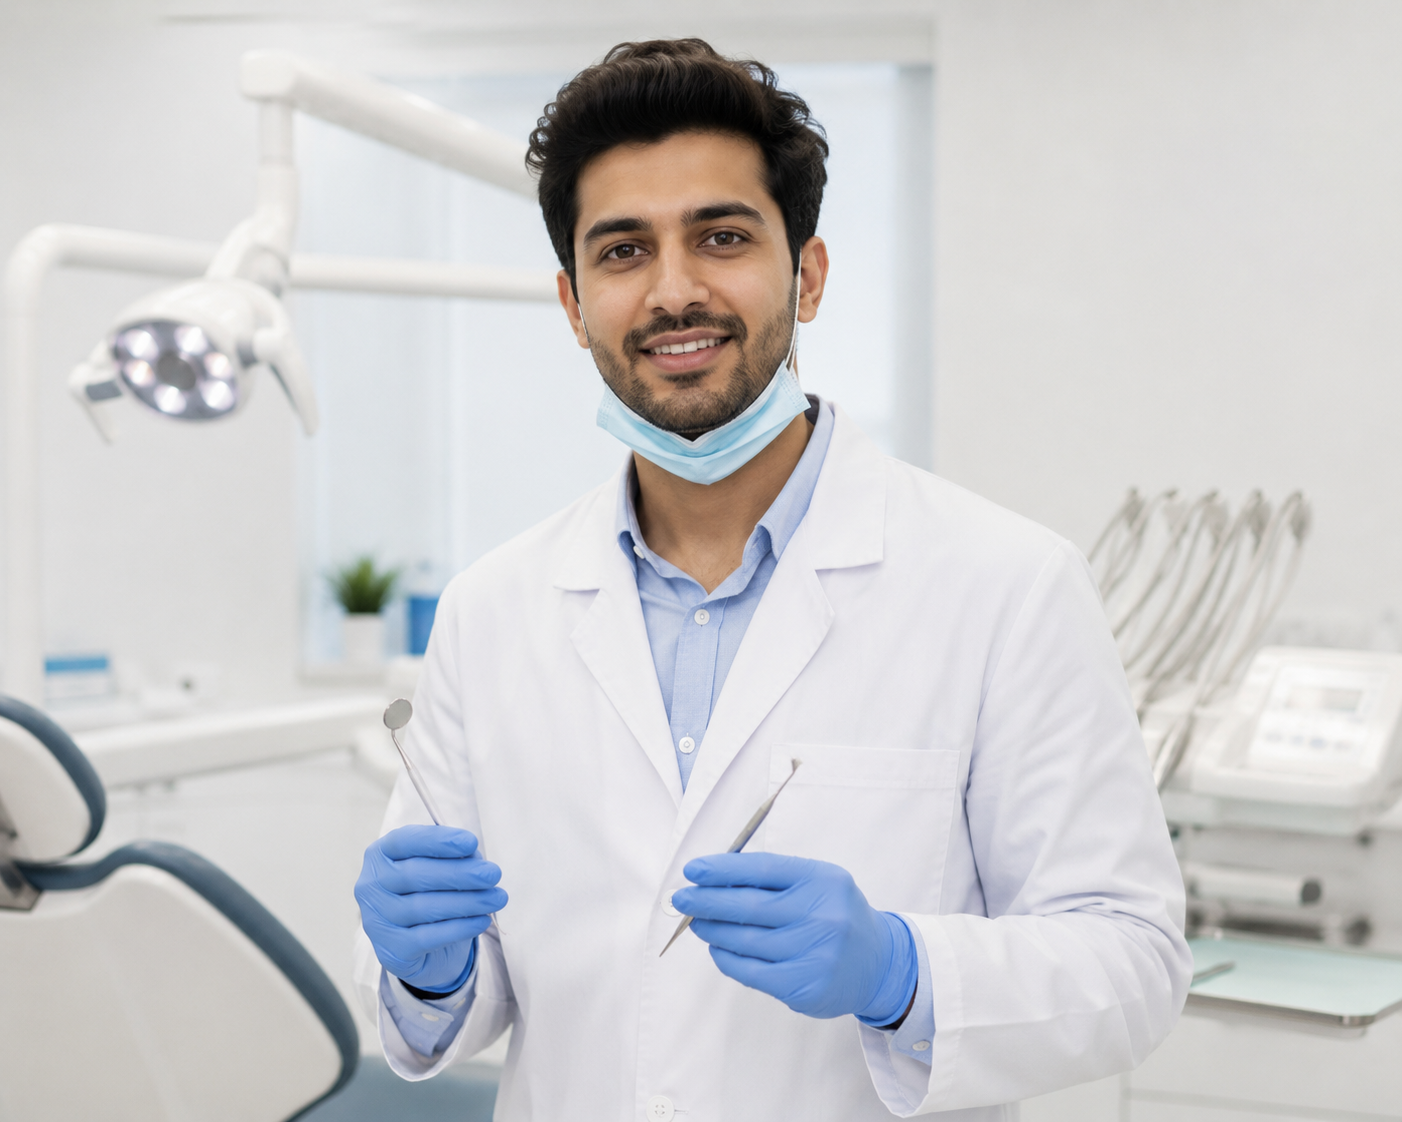
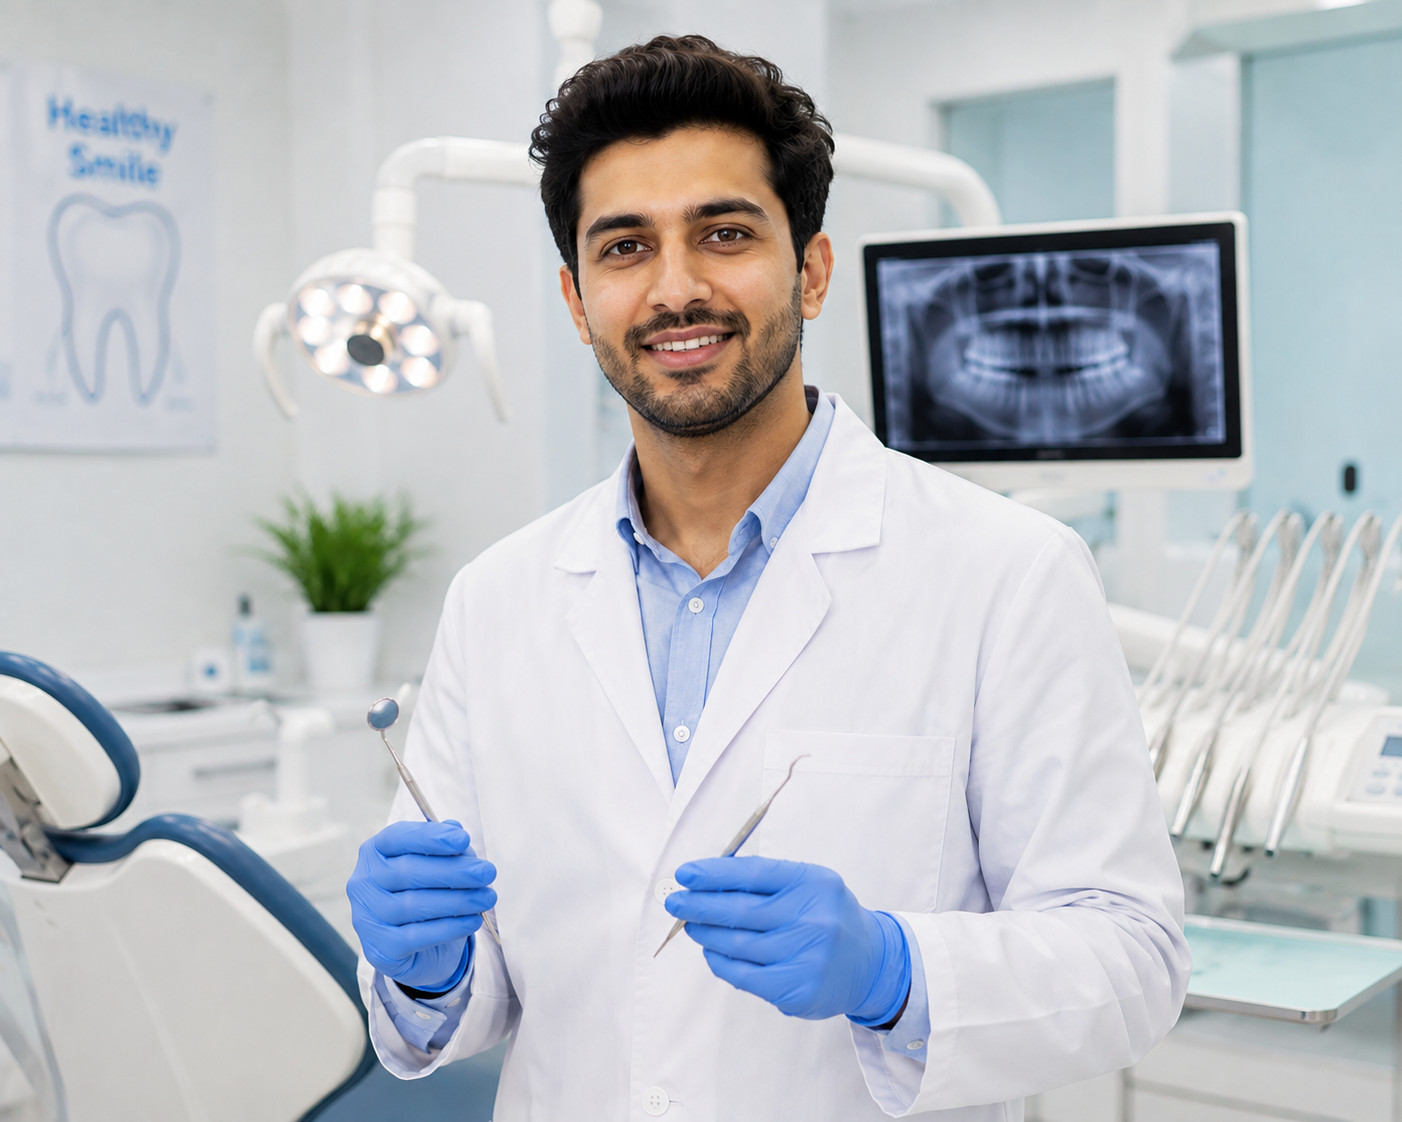
doctorsdetails added

diff --git a/src/Pages/Doctors/Doctors.jsx b/src/Pages/Doctors/Doctors.jsx
@@ -1,16 +1,17 @@
 import React, { useEffect, useState } from 'react';
 import Cover from '../../Shared/Cover/Cover';
 import DoctorsCover from '../../assets/team/doctor-cover.jpg';
+import AppointmentImg from '../../assets/team/Appointment.jpg'
 import AllDoctors from './AllDoctors';
 
 const Doctors = () => {
     const [doctors, setDoctors] = useState([]);
 
-    useEffect(() =>{
+    useEffect(() => {
         fetch('doctors.json')
-        .then(res => res.json())
-        .then(data => 
-            setDoctors(data));
+            .then(res => res.json())
+            .then(data =>
+                setDoctors(data));
     }, [])
 
     return (
@@ -24,12 +25,126 @@ const Doctors = () => {
                 </p>
             </div>
             <div className='grid md:grid-cols-2 lg:grid-cols-3 gap-5 mt-20'>
-                 {doctors.map(doctor => (
+                {doctors.map(doctor => (
                     <AllDoctors
                         key={doctor._id}
                         doctor={doctor}
                     />
                 ))}
+            </div>
+            {/* ---- Book an Appointment ---- */}
+            <div className="hero bg-base-200 min-h-screen mt-20">
+                <div className="w-full hero-content flex-col lg:flex-row gap-20">
+                    <img
+                        alt=""
+                        src={AppointmentImg}
+                        className="w-1/2 rounded-lg shadow-2xl"
+                    />
+                    {/* ---- form ---- */}
+                    <div className='w-1/2 mx-auto'>
+                        <div className="text-center">
+                            <h1 className="font-semibold text-2xl pb-5">Book an Appointment</h1>
+                            <p className='pb-20'>Our experienced team strives to provide a positive, stress-free <br />experience.</p>
+                        </div>
+
+                        <form noValidate="" className="space-y-6">
+                            <div className='flex gap-3'>
+                                <fieldset className="fieldset w-full">
+                                    <legend className="text-sm mb-2 uppercase">Services</legend>
+                                    <select defaultValue="Pick a browser" className="select p-7 rounded-xl border-0">
+                                        <option disabled={true}>Select Service</option>
+                                        <option>Dental Fixing Service</option>
+                                        <option>Cosmetic Dentistry</option>
+                                        <option>Dental Implants</option>
+                                        <option>Routine Dental Exam</option>
+                                        <option>Teeth Whitening</option>
+                                        <option>Dental Fillings</option>
+                                    </select>
+                                </fieldset>
+                                <fieldset className="fieldset w-full">
+                                    <legend className="text-sm mb-2 uppercase">Doctor</legend>
+                                    <select className="select p-7 rounded-xl border-0">
+                                        <option disabled={true}>Select Doctor</option>
+                                        <option>Sarah Ahmed</option>
+                                        <option>Mohammad Rahman</option>
+                                        <option>Nusrat Jahan</option>
+                                        <option>Tanvir Hasan</option>
+                                        <option>Farzana Akter</option>
+                                        <option>Imran Kabir</option>
+                                    </select>
+                                </fieldset>
+                            </div>
+                            <div className='flex gap-3'>
+                                <fieldset className="fieldset w-full">
+                                    <label htmlFor="name" className="text-sm mb-2">YOUR NAME *</label>
+                                    <input id="name" type="text" placeholder="Your Full Name*" className="input p-7 rounded-xl border-0" />
+                                </fieldset>
+                                <fieldset className="fieldset w-full">
+                                    <label htmlFor="phone" className="text-sm mb-2">YOUR PHONE</label>
+                                    <input type="phone" placeholder="Your Phone" className="input p-7 rounded-xl border-0" />
+                                </fieldset>
+                            </div>
+                            <div className='flex gap-3'>
+                                <fieldset className="fieldset w-full">
+                                    <label htmlFor="message" className="text-sm mb-2">DATE</label>
+                                    <input type="date" placeholder="Select Date" className="input p-7 rounded-xl border-0" />
+                                </fieldset>
+                                <div className='w-full'>
+                                    <legend className="text-sm mb-2 uppercase">Time</legend>
+                                    <div className='flex gap-3'>
+                                        <fieldset className="fieldset w-1/2">
+                                            <select defaultValue="Pick a browser" className="select p-7 rounded-xl border-0">
+                                                <option disabled={true}>Select</option>
+                                                <option>00</option>
+                                                <option>01</option>
+                                                <option>02</option>
+                                                <option>03</option>
+                                                <option>04</option>
+                                                <option>05</option>
+                                                <option>06</option>
+                                                <option>07</option>
+                                                <option>08</option>
+                                                <option>09</option>
+                                                <option>10</option>
+                                            </select>
+                                        </fieldset>
+                                        <fieldset className="fieldset w-1/2">
+                                            <select defaultValue="Pick a browser" className="select p-7 rounded-xl border-0">
+                                                <option disabled={true}>Select</option>
+                                                <option>00</option>
+                                                <option>01</option>
+                                                <option>02</option>
+                                                <option>03</option>
+                                                <option>04</option>
+                                                <option>05</option>
+                                                <option>06</option>
+                                                <option>07</option>
+                                                <option>08</option>
+                                                <option>09</option>
+                                                <option>10</option>
+                                                <option>00</option>
+                                                <option>11</option>
+                                                <option>12</option>
+                                                <option>13</option>
+                                                <option>14</option>
+                                                <option>15</option>
+                                                <option>16</option>
+                                                <option>17</option>
+                                                <option>18</option>
+                                                <option>19</option>
+                                                <option>20</option>
+                                                <option>30</option>
+                                                <option>40</option>
+                                                <option>50</option>
+                                            </select>
+                                        </fieldset>
+                                    </div>
+                                </div>
+                            </div>
+                            <button type="submit" className="w-full p-3 text-sm font-bold tracking-wide uppercase rounded btn bg-[#5F6FFF] text-white hover:bg-[#434fbe]">Make an Appointment</button>
+                        </form>
+                    </div>
+                </div>
             </div>
         </div>
     );

diff --git a/src/Pages/Doctors/AllDoctors.jsx b/src/Pages/Doctors/AllDoctors.jsx
@@ -1,33 +1,34 @@
 import { GoArrowDownRight } from "react-icons/go";
 import { TiSocialFacebook, TiSocialLinkedin } from "react-icons/ti";
+import { Link } from "react-router-dom";
 
 
 const AllDoctors = ({ doctor }) => {
-    const { doctorImage, doctorName, specialization,
+    const {_id, doctorImage, doctorName, specialization,
         // phone, email, location, qualification, hospital
     }
         = doctor;
     return (
         <div>
-            <div className="card bg-base-100 shadow-sm hover:bg-gray-200 rounded-2xl">
+            <div className="card bg-base-100 shadow-sm hover:bg-base-200 rounded-2xl">
 
                 <div className="card-body">
-                    <div className="pb-12">
+                    <div className="pb-10">
                         <h2 className="card-title text-3xl">{doctorName}</h2>
                         <p className='text-lg'>{specialization}</p>
                     </div>
                     <figure>
                         <img
                             src={doctorImage}
-                            alt="Shoes" className='rounded-4xl' />
+                            alt="" className='rounded-4xl' />
                     </figure>
-                    <div className="py-12 flex justify-between items-center">
-                        <div className="card-actions ">
-                            <button className="uppercase flex justify-baseline">Open Profile<GoArrowDownRight className="text-xl"></GoArrowDownRight></button>
+                    <div className="py-6 flex justify-between items-center">
+                        <div className="card-actions">
+                            <button><Link to={`/doctorsdetail/${_id}`} className="uppercase flex justify-baseline">Open Profile<GoArrowDownRight className="text-xl"></GoArrowDownRight></Link></button>
                         </div>
                         <div className="text-2xl flex gap-2">
-                            <button className="bg-gray-300 p-2 rounded-full"><TiSocialLinkedin></TiSocialLinkedin></button>
-                            <button className="bg-gray-300 p-2 rounded-full"><TiSocialFacebook></TiSocialFacebook></button>
+                            <button className="hover:bg-gray-300 p-2 rounded-full bg-[#DADEFF]"><TiSocialLinkedin></TiSocialLinkedin></button>
+                            <button className="hover:bg-gray-300 p-2 rounded-full bg-[#DADEFF]"><TiSocialFacebook></TiSocialFacebook></button>
                         </div>
                     </div>
                 </div>

diff --git a/src/Pages/Doctors/DoctorsDetail.jsx b/src/Pages/Doctors/DoctorsDetail.jsx
@@ -1,0 +1,77 @@
+import React, { useEffect, useState } from 'react';
+import { Link, useParams } from 'react-router-dom';
+
+const DoctorsDetail = () => {
+
+  const { id } = useParams();
+
+
+  const [doctors, setDoctors] = useState([]);
+  const [loading, setLoading] = useState(true);
+
+  useEffect(() => {
+    fetch("/doctors.json")
+      .then(res => res.json())
+      .then(data => {
+        setDoctors(data);
+        setLoading(false);
+      })
+      .catch(error => {
+        console.error(error);
+        setLoading(false);
+      });
+  }, []);
+
+  // Find specific service
+  const doctor = doctors.find(
+    item => item._id.toString() === id
+  );
+
+  // Loading
+  if (loading) {
+    return (
+      <div className="flex justify-center items-center min-h-screen">
+        <span className="loading loading-spinner loading-lg"></span>
+      </div>
+    );
+  }
+
+  // Service not found
+  if (!doctor) {
+    return (
+      <div className="text-center py-20">
+        <h2 className="text-3xl font-bold">
+          Service Not Found
+        </h2>
+
+        <Link to="/services">
+          <button className="btn btn-primary mt-5">
+            Back to Services
+          </button>
+        </Link>
+      </div>
+    );
+  }
+
+
+
+
+    return (
+        <div>
+            <div className="hero bg-base-200 min-h-screen">
+  <div className="hero-content text-center">
+    <div className="max-w-md">
+      <h1 className="text-5xl font-bold">{doctor.doctorName}</h1>
+      <p className="py-6">
+        Provident cupiditate voluptatem et in. Quaerat fugiat ut assumenda excepturi exercitationem
+        quasi. In deleniti eaque aut repudiandae et a id nisi.
+      </p>
+      <button className="btn btn-primary">Get Started</button>
+    </div>
+  </div>
+</div>
+        </div>
+    );
+};
+
+export default DoctorsDetail;

diff --git a/src/Routes/Router.jsx b/src/Routes/Router.jsx
@@ -12,6 +12,7 @@ import ServicesDetail from "../Pages/Home/ServicesCard/ServicesDetail";
 import Testimonials from "../Pages/Testimonials/Testimonials";
 import Priceing from "../Pages/Priceing/Priceing";
 import Doctors from "../Pages/Doctors/Doctors";
+import DoctorsDetail from "../Pages/Doctors/DoctorsDetail";
 
 
 export const router = createBrowserRouter([
@@ -38,6 +39,10 @@ export const router = createBrowserRouter([
       {
         path: 'doctors',
         element: <Doctors></Doctors>
+      },
+      {
+        path: 'doctorsdetail/:id',
+        element: <DoctorsDetail></DoctorsDetail>
       },
       {
         path: 'contact',
